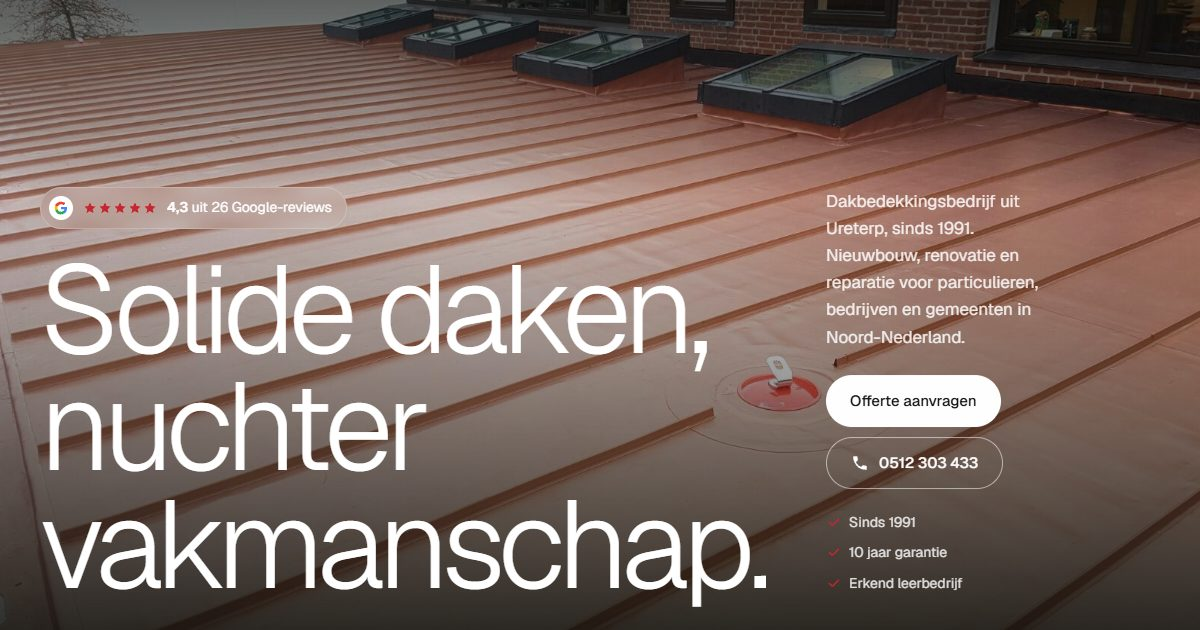
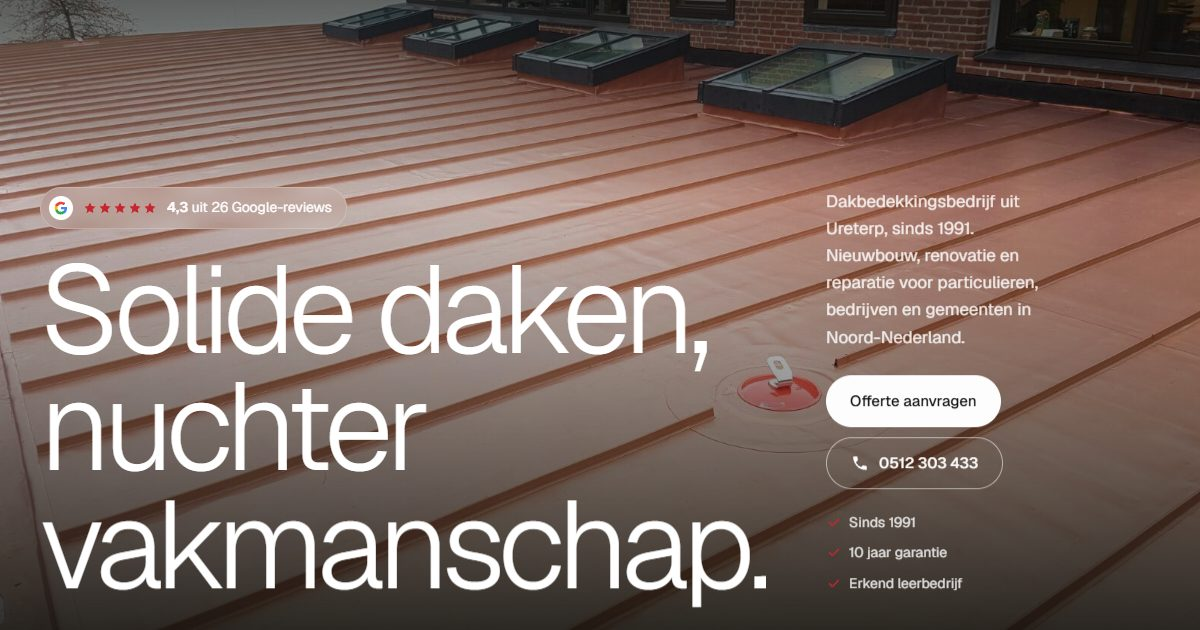
E-mail-previews meijer-dak, dakwerk-assen

diff --git a/meijer-dak-c2cb51/index.html b/meijer-dak-c2cb51/index.html
@@ -14,14 +14,14 @@
 <link rel="preconnect" href="https://fonts.googleapis.com">
 <link rel="preconnect" href="https://fonts.gstatic.com" crossorigin>
 <link href="https://fonts.googleapis.com/css2?family=Geist:wght@300;400;500;600&display=swap" rel="stylesheet">
-<link rel="stylesheet" href="style.css?v=1795796302142">
-<script src="data.js?v=1795796302142"></script>
+<link rel="stylesheet" href="style.css?v=1795796318110">
+<script src="data.js?v=1795796318110"></script>
 </head>
 <body>
 <div id="app"></div>
 <div class="kw-strip" role="note">Voorbeeld door <b>Kievits Webdesign</b><span class="kw-sep">·</span><a href="https://wa.me/31634268481?text=Hoi%20Marco%2C%20ik%20heb%20de%20nieuwe%20website%20voor%20Meijer%20Dakbedekking%20B.V.%20gezien." target="_blank" rel="noopener">Interesse? App Marco</a></div>
 <style>.kw-strip{position:fixed;left:50%;transform:translateX(-50%);bottom:calc(12px + env(safe-area-inset-bottom,0px));z-index:9999;background:#111;color:#fff;font:500 13px/1.3 system-ui,sans-serif;padding:9px 16px;border-radius:999px;white-space:nowrap;box-shadow:0 6px 20px rgba(0,0,0,.3);display:flex;gap:8px;align-items:center}.kw-strip b{color:#f0c66b;font-weight:600}.kw-strip a{color:#7ee2a8;font-weight:700;text-decoration:none}@media (max-width:420px){.kw-strip{font-size:12px;padding:8px 12px}}</style>
-<script src="main.js?v=1795796302142"></script>
+<script src="main.js?v=1795796318110"></script>
 <!-- counter --><script data-goatcounter="https://kievits.goatcounter.com/count" async src="https://gc.zgo.at/count.js"></script><!-- /counter -->
 </body>
 </html>

diff --git a/dakwerk-assen-1d7a12/index.html b/dakwerk-assen-1d7a12/index.html
@@ -14,14 +14,14 @@
 <link rel="preconnect" href="https://fonts.googleapis.com">
 <link rel="preconnect" href="https://fonts.gstatic.com" crossorigin>
 <link href="https://fonts.googleapis.com/css2?family=Geist:wght@300;400;500;600&display=swap" rel="stylesheet">
-<link rel="stylesheet" href="style.css?v=1795796304004">
-<script src="data.js?v=1795796304004"></script>
+<link rel="stylesheet" href="style.css?v=1795796320002">
+<script src="data.js?v=1795796320002"></script>
 </head>
 <body>
 <div id="app"></div>
 <div class="kw-strip" role="note">Voorbeeld door <b>Kievits Webdesign</b><span class="kw-sep">·</span><a href="https://wa.me/31634268481?text=Hoi%20Marco%2C%20ik%20heb%20de%20nieuwe%20website%20voor%20Dakwerk%20Assen%20B.V.%20gezien." target="_blank" rel="noopener">Interesse? App Marco</a></div>
 <style>.kw-strip{position:fixed;left:50%;transform:translateX(-50%);bottom:calc(12px + env(safe-area-inset-bottom,0px));z-index:9999;background:#111;color:#fff;font:500 13px/1.3 system-ui,sans-serif;padding:9px 16px;border-radius:999px;white-space:nowrap;box-shadow:0 6px 20px rgba(0,0,0,.3);display:flex;gap:8px;align-items:center}.kw-strip b{color:#f0c66b;font-weight:600}.kw-strip a{color:#7ee2a8;font-weight:700;text-decoration:none}@media (max-width:420px){.kw-strip{font-size:12px;padding:8px 12px}}</style>
-<script src="main.js?v=1795796304004"></script>
+<script src="main.js?v=1795796320002"></script>
 <!-- counter --><script data-goatcounter="https://kievits.goatcounter.com/count" async src="https://gc.zgo.at/count.js"></script><!-- /counter -->
 </body>
 </html>
